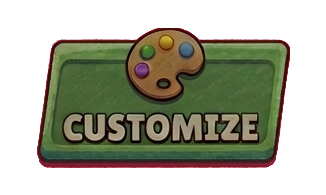
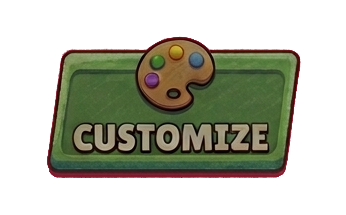
fix: button star clipping — add 10px padding in slicer crop regions
The PLAY button's star decoration tip was being clipped because the
auto-detected row band cut exactly at the content boundary. Added 10px
padding on all sides when extracting from the spritesheet, so
decorations that extend beyond the detected bounds are fully captured.

Verified via closeup Playwright screenshot: star tip fully visible.

Changed region(s): [[0.092, 0.1231, 0.8896, 0.8615]]

diff --git a/client-host/slice.html b/client-host/slice.html
@@ -93,9 +93,10 @@ img.onload = () => {
   for (let ci = 0; ci < 3; ci++) {
     const regions = rawRegions[ci];
     if (!regions || regions.length < 3) continue;
-    // Find max dimensions across states
-    const maxW = Math.max(...regions.map(r => r.w));
-    const maxH = Math.max(...regions.map(r => r.h));
+    // Find max dimensions across states + padding for decorations that extend beyond detected bounds
+    const PAD = 10;
+    const maxW = Math.max(...regions.map(r => r.w)) + PAD * 2;
+    const maxH = Math.max(...regions.map(r => r.h)) + PAD * 2;
     log(names[ci] + ' normalized to ' + maxW + 'x' + maxH);
 
     for (const reg of regions) {
@@ -103,10 +104,14 @@ img.onload = () => {
       const c = document.createElement('canvas');
       c.width = maxW; c.height = maxH;
       const ctx = c.getContext('2d');
-      // Center the button content in the normalized canvas
-      const offX = Math.round((maxW - reg.w) / 2);
-      const offY = Math.round((maxH - reg.h) / 2);
-      ctx.drawImage(img, reg.x, reg.y, reg.w, reg.h, offX, offY, reg.w, reg.h);
+      // Draw with extended source region (PAD extra on each side from spritesheet)
+      const srcX = Math.max(0, reg.x - PAD);
+      const srcY = Math.max(0, reg.y - PAD);
+      const srcW = Math.min(W - srcX, reg.w + PAD * 2);
+      const srcH = Math.min(H - srcY, reg.h + PAD * 2);
+      const offX = Math.round((maxW - srcW) / 2);
+      const offY = Math.round((maxH - srcH) / 2);
+      ctx.drawImage(img, srcX, srcY, srcW, srcH, offX, offY, srcW, srcH);
 
       // Remove pink bg
       const id = ctx.getImageData(0, 0, maxW, maxH);
